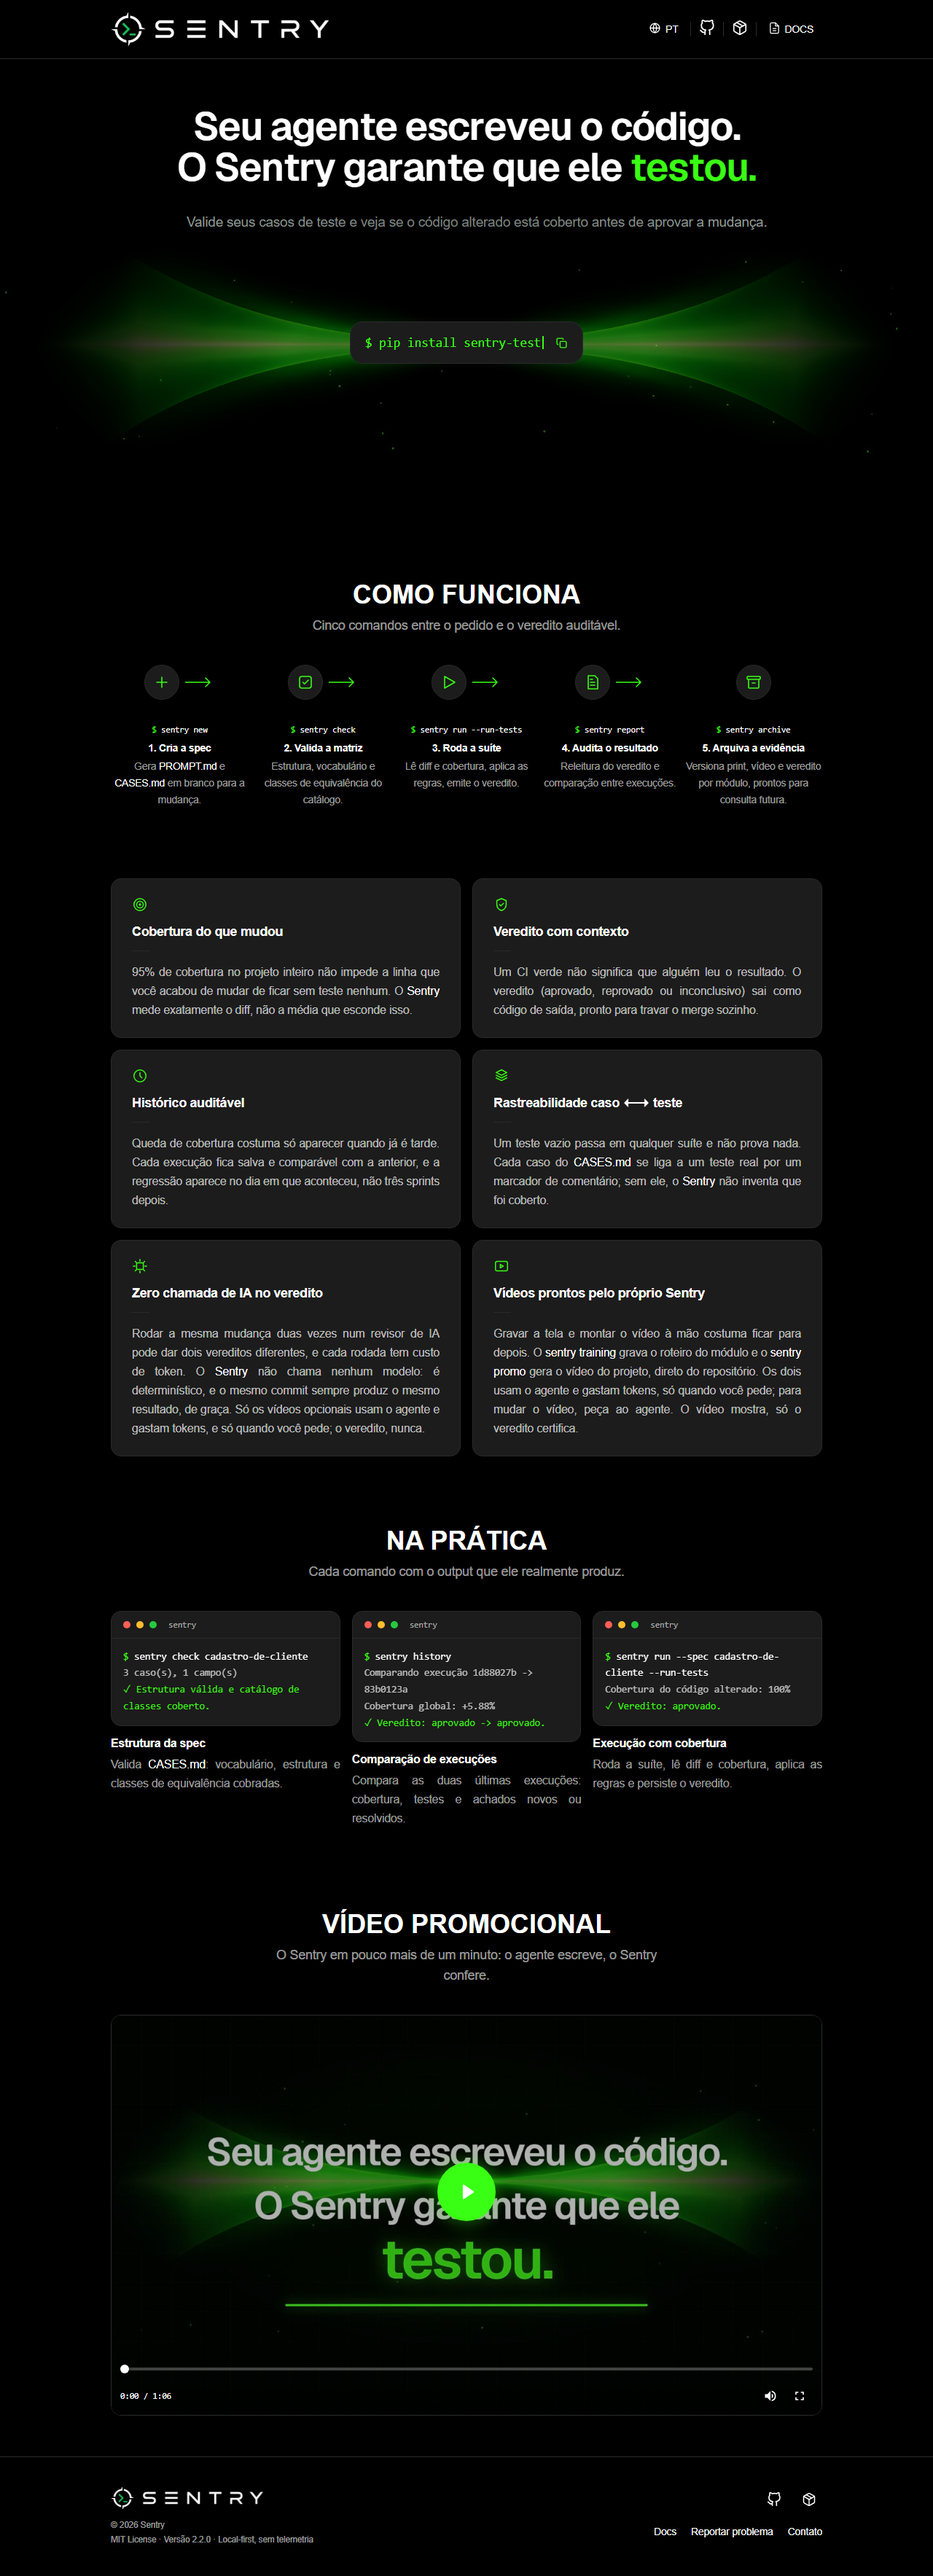
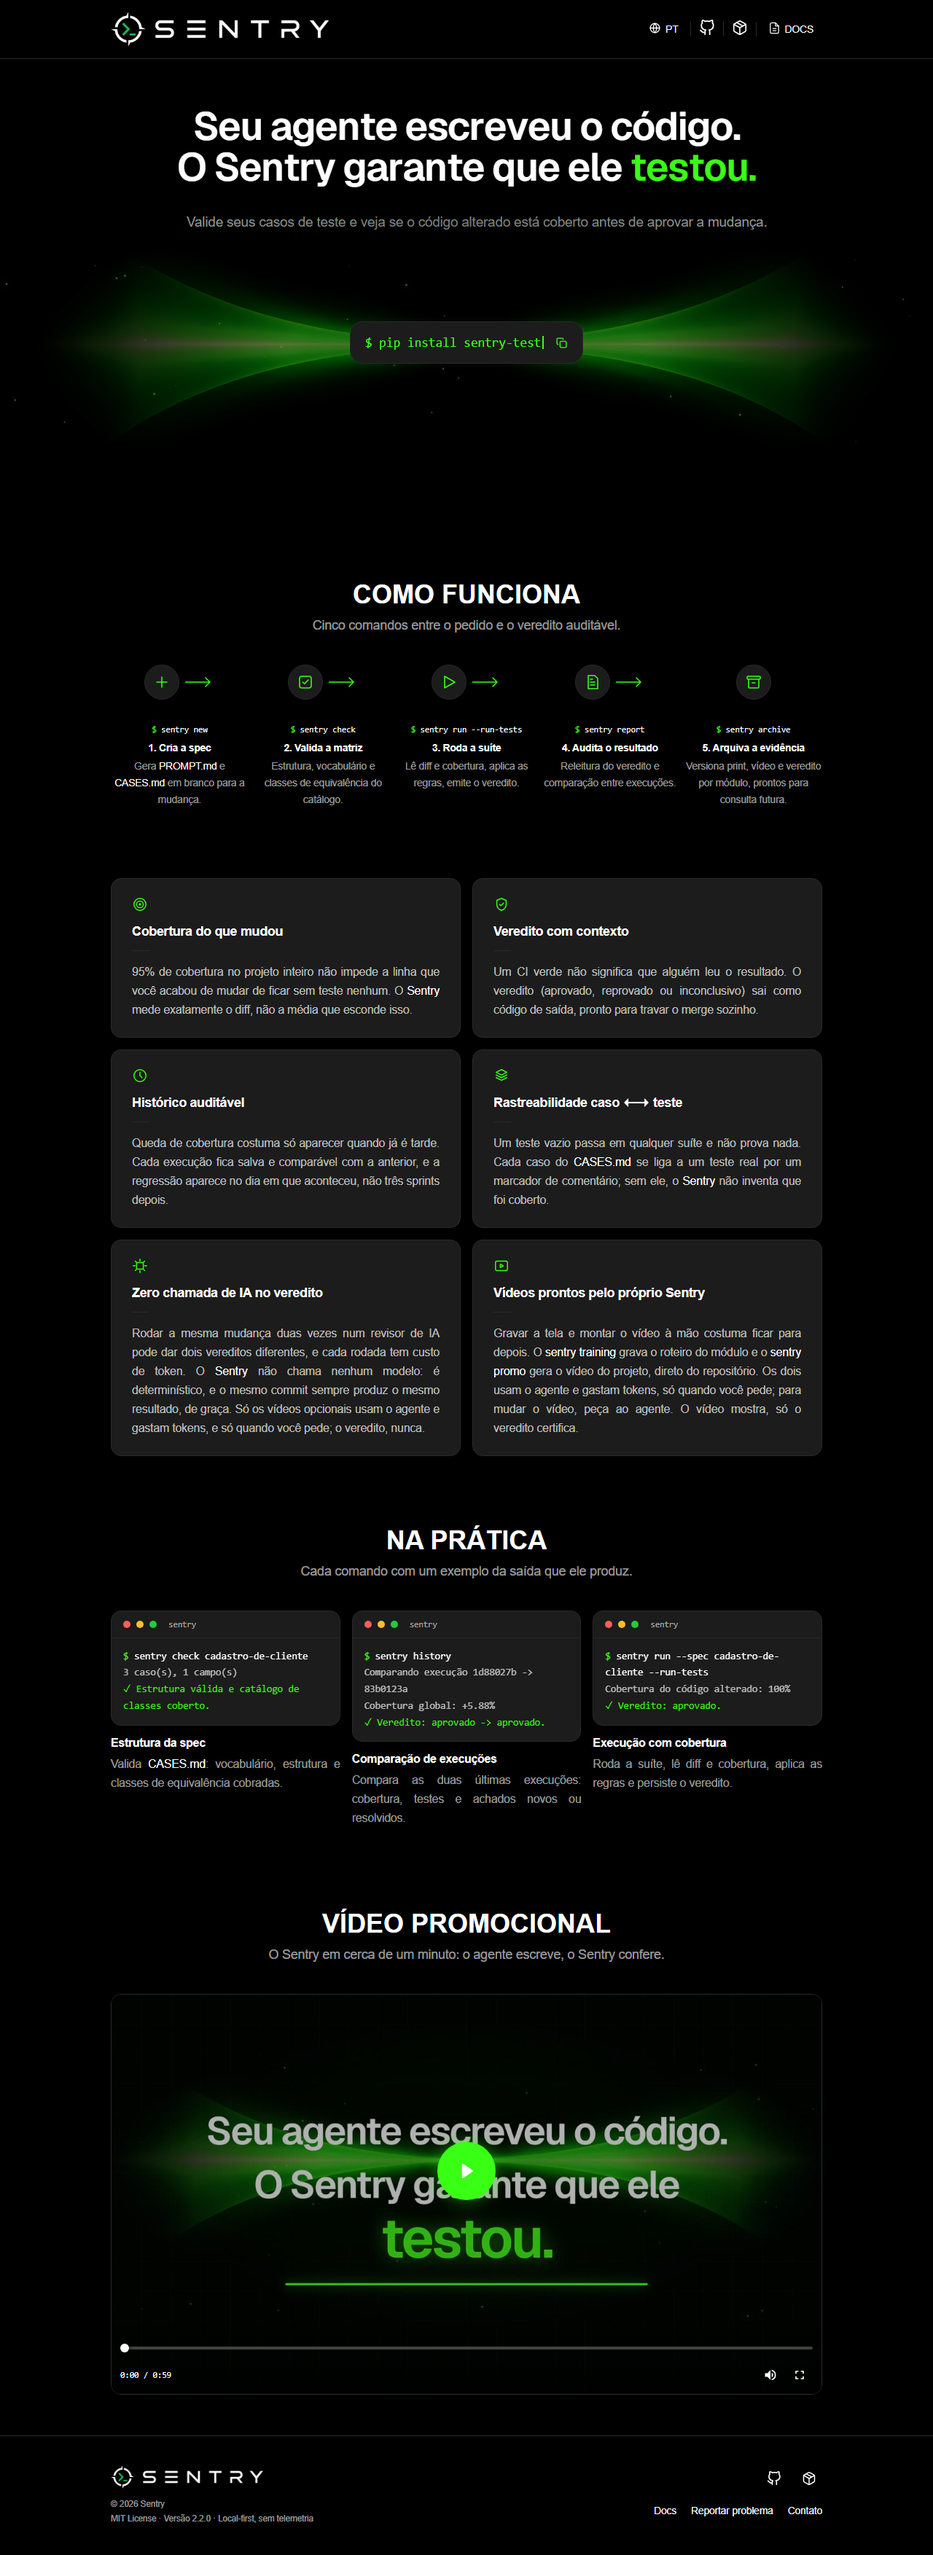
chore(archive): refaz a evidência visual do módulo aplicacao v1.0.0 no estado final
Home com o player de 59 s, o texto cerca de um minuto e a frase suavizada da
vitrine, e a aba Comandos com as entradas curtas de promo e training. Carimbo
do commit atual.

diff --git a/.sentry/storage/aplicacao-1.0.0/README.md b/.sentry/storage/aplicacao-1.0.0/README.md
@@ -1,7 +1,7 @@
 # Módulo aplicacao — v1.0.0
 
-- Arquivado em: 02/10/2026 14:54:04 (UTC-4)
-- Commit: 75512b38c9bf
+- Arquivado em: 02/10/2026 16:05:55 (UTC-4)
+- Commit: fcbdc03182a7
 - Veredito: sem certificação — registro visual
 
 ## Rotas fotografadas
